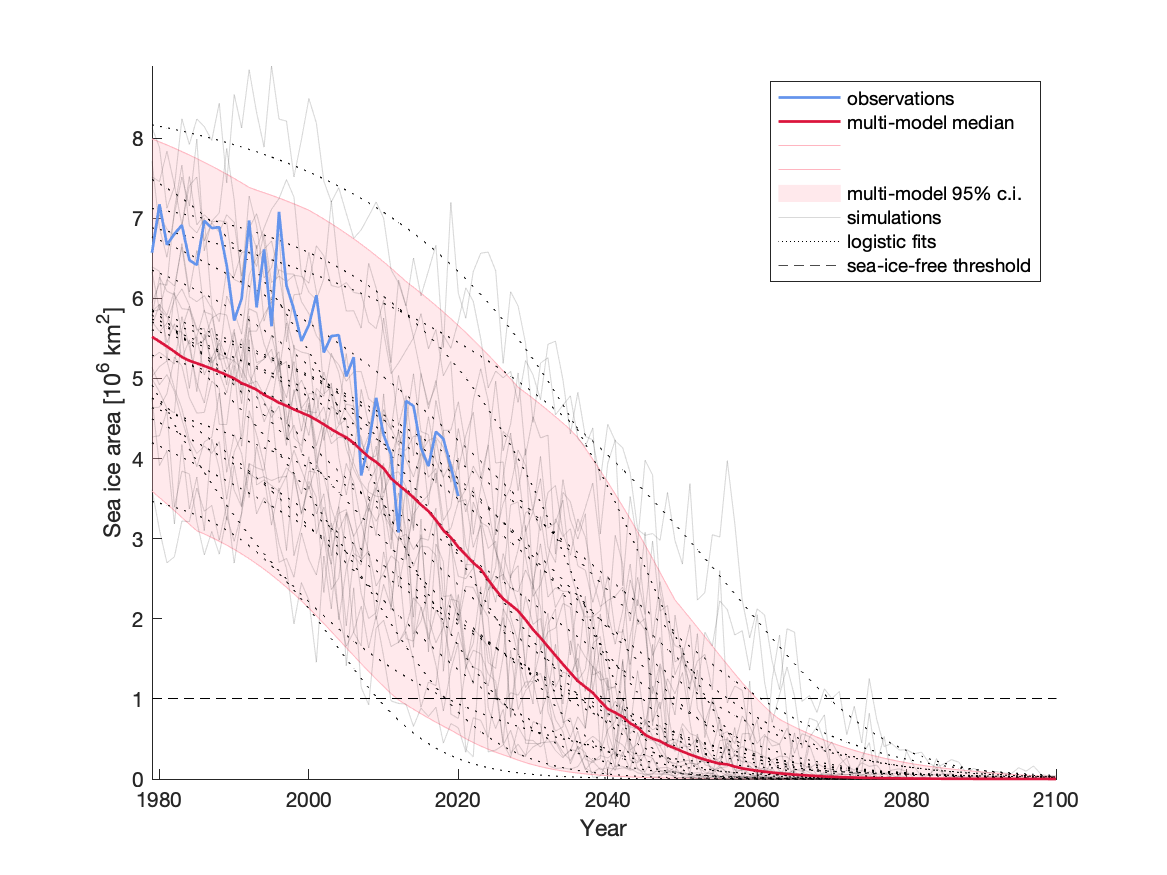
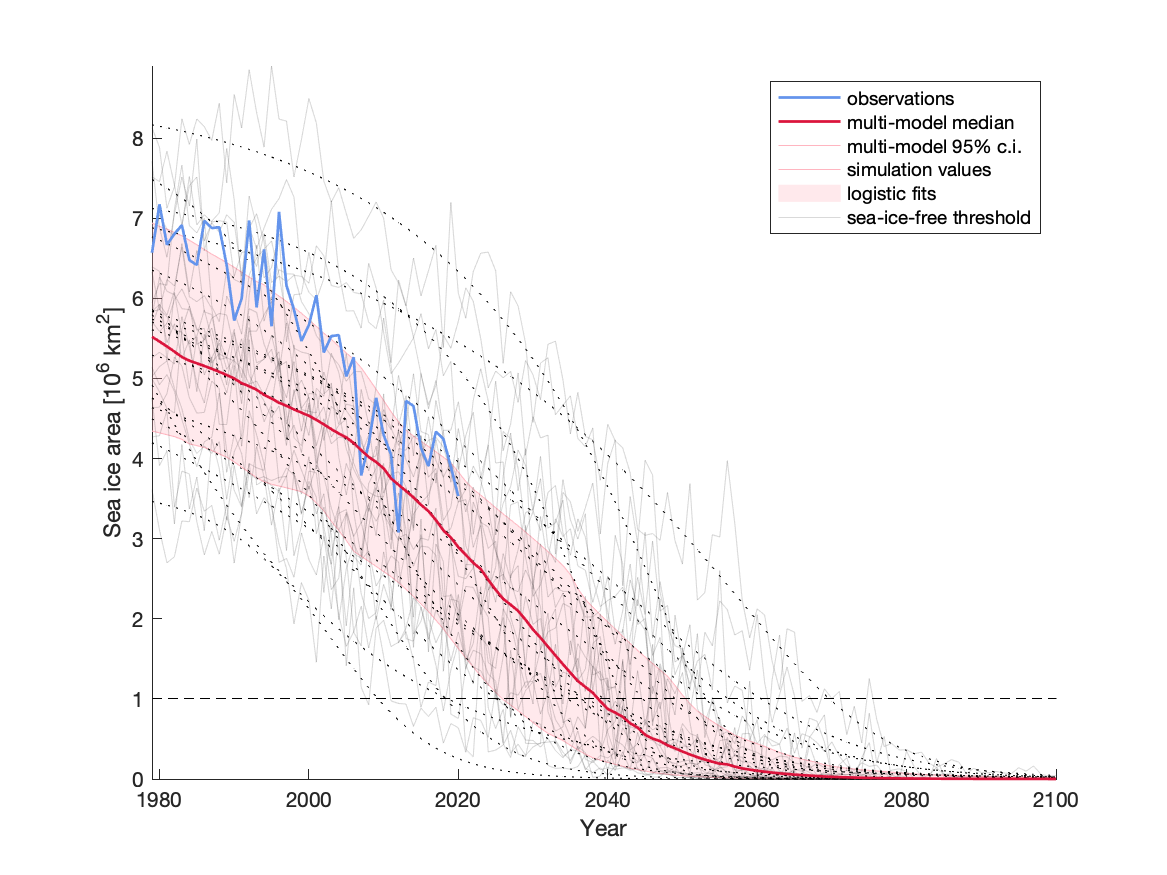
Revise plotting function legend and formatting

Changed region(s): [[0.7095, 0.1543, 0.8946, 0.3086]]

diff --git a/sia_plots.m b/sia_plots.m
@@ -12,7 +12,9 @@ clearvars
 % uncertainty
 Fig1=0;
 if Fig1
-saveStr='SIAFig1_22_11_15';
+    fSize=16; %Font Size
+    saveStr='SIAFig1_22_11_21';
+    load model_full_priors_22_11_14.mat
 end
 
 %%%%%%%%%%%%%%%%%%%%%%%%%%%%%%%%%%%%%%%%%%%%%%%%%%%%%%%%%%%%%%%%%%%%%%%%%%
@@ -20,17 +22,20 @@ end
 Fig2=0; %Set to 1 to use cmip6 output, 0 otherwise
 modelrun=19; % Set to the index of the model run used
 if Fig2
-saveStr='SIAFig2_22_11_15';
-load model_predictions_22_11_14b.mat %Select set of posterior predictions to run
-load model_full_priors_22_11_14.mat
+    fSize=16; %Font Size
+    saveStr='SIAFig2_22_11_21';
+    load model_predictions_22_11_14b.mat %Select set of posterior predictions to run
+    load model_full_priors_22_11_14.mat
 end
 %%%%%%%%%%%%%%%%%%%%%%%%%%%%%%%%%%%%%%%%%%%%%%%%%%%%%%%%%%%%%%%%%%%%%%%%%%
 % Settings for plotting a panel of all the CMIP6 runs
 Fig2b=0;
 if Fig2b
-    saveStr='SIAFig2b_22_11_15';
+    fSize=16; %Font Size
+    saveStr='SIAFig2b_22_11_21';
     load model_predictions_22_11_14b.mat %Select set of posterior predictions to run
     load model_full_priors_22_11_14.mat
+    load mat_files/A20.mat
 end
 
 %%%%%%%%%%%%%%%%%%%%%%%%%%%%%%%%%%%%%%%%%%%%%%%%%%%%%%%%%%%%%%%%%%%%%%%%%%
@@ -38,8 +43,9 @@ end
 Fig3=0; %Set to 1 to use actual remote sensing observations
 newPred=0; %Set to 1 to use new prediction, 0 to load past prediction
 if Fig3
-saveStr='SIAFig3_22_11_16';
-load model_full_priors_22_11_14.mat %Priors to plot
+    fSize=16; %Font Size
+    saveStr='SIAFig3_22_11_21';
+    load model_full_priors_22_11_14.mat %Priors to plot
 end
 if newPred
     %Set parameters for slicesampler
@@ -54,10 +60,10 @@ end
 % Settings for plot of sensitivity to parameters
 Fig4=1; %Set to 1 to use actual remote sensing observations
 newPred=0; %Set to 1 to use new prediction, 0 to load past prediction
-fSize=16; %Font Size
 if Fig4
-saveStr='SIAFig4_22_11_16';
-load model_full_priors_22_11_14.mat %Priors to plot
+    fSize=16; %Font Size
+    saveStr='SIAFig4_22_11_21';
+    load model_full_priors_22_11_14.mat %Priors to plot
 end
 if newPred
     %Set parameters for slicesampler
@@ -90,11 +96,7 @@ if Fig1
             ct = ct+1;
         end
     end
-    % ======================================================================
-    % Get priors for each of the 79 realisations
-    load model_full_priorsb_22_11_10.mat
-    
-    
+    % ======================================================================    
     % storing 1st round priors, finding most frequent value
     glm=runInfo.glm; %The functional form used by the MCMC model
     for ct_79 = 1:79
@@ -102,7 +104,7 @@ if Fig1
         mle=[mean(p1_priors(:,ct_79)) mean(p2_priors(:,ct_79)) mean(p3_priors(:,ct_79)) mean(p4_priors(:,ct_79))];
         y_full(:,ct_79) = glm(mle,tAll);
     end
-    siamodsprct=prctile(y_full',[2.5 50 97.5]);
+    siamodsprct=prctile(y_full',[10 50 90]);
     
     % creating index for first ensemble member for each model
     for ct_mod = 1:20
@@ -112,30 +114,44 @@ if Fig1
     
     % plotting figure 1
     figure; hold on;
-    plot(t+stYr,y_obs,'color',rgb('CornflowerBlue'),'LineWidth',1.3);%observations
-    plot(tAll+stYr,siamodsprct(2,:),'color',rgb('Crimson'),'LineWidth',1.3);%multimodel median
+    h(1)=plot(t+stYr,y_obs,'color',rgb('CornflowerBlue'),'LineWidth',1.3);%observations
+    h(2)=plot(tAll+stYr,siamodsprct(2,:),'color',rgb('Crimson'),'LineWidth',1.3);%multimodel median
     shade(tAll+stYr,siamodsprct(1,:),tAll+stYr,siamodsprct(3,:),'color',rgb('LightPink'),'FillType',[2 1]);
     for ct =em1
-        plot(tAll+stYr,y2(:,ct),'color',[rgb('Black'),0.15]); %actual realisations
-        plot(tAll+stYr,y_full(:,ct),':','color',rgb('Black')); %logistic fits
-        yline(1,'--k');%threshold
+        h(3)=plot(tAll+stYr,y2(:,ct),'color',[rgb('Black'),0.15]); %actual realisations
+        h(4)=plot(tAll+stYr,y_full(:,ct),':','color',rgb('Black')); %logistic fits
+        h(5)=yline(1,'--k');%threshold
         %     plot(t2+stYr,siamodsprct(:,2),'color',rgb('Red'),'LineWidth',1.5);%model median again
         axis tight;
         xlabel('Year');
         ylabel('Sea ice area [10^6 km^2]');
-        yline(1,'--k');
     end
     plot(t+stYr,y_obs,'color',rgb('CornflowerBlue'),'LineWidth',1.3);%observations again
     plot(tAll+stYr,siamodsprct(2,:),'color',rgb('Crimson'),'LineWidth',1.3);%multimodel median again
-    legend('observations','multi-model median','','','multi-model 95% c.i.','simulations','logistic fits','sea-ice-free threshold');
-    
-    % saving the figures
+    legend(h,'observations','multi-model median','simulation values','logistic fits','sea-ice-free threshold');
+    legend boxoff
+    set(gca,'FontSize',fSize);
     % saving the figure
     saveas(gcf,['plots/' saveStr],'png');
 end
 if Fig2b
+    %Get labels for all the model runs
+    ct = 1;
+    for ct_mod = 1:size(A20,2)
+        if size(A20(ct_mod).X,2)>1
+            runCt=1;
+            for ct_em = 1:size(A20(ct_mod).X,2)
+                pltLabel(ct)=strcat(string(A20(ct_mod).name), " run ",num2str(runCt));
+                runCt=runCt+1;
+                ct = ct+1;
+            end
+        else
+            pltLabel(ct)=string(A20(ct_mod).name);
+            ct=ct+1;
+        end 
+    end
     glm=obsInfo.glm;
-    figure
+    figure2('Position',[10 10 1200 1000])
     for mn=1:79
         full_fit_theta=[median(p1_priors(:,mn)) median(p2_priors(:,mn)) median(p3_priors(:,mn)) median(p4_priors(:,mn))]; 
         yhat = glmtimeseries(glm,squeeze(chainAll(:,:,mn)),tAll);
@@ -146,7 +162,7 @@ if Fig2b
         hold on; 
         plot(stYr+tAll,yfull,'Color','r');
         hold on;
-        title(['Run ' num2str(mn)])
+        title(pltLabel(mn))
     end 
     saveas(gcf,['plots/' saveStr],'png');
 end
@@ -275,28 +291,28 @@ if Fig3
     siaprctpred = prctile(ypred,[7 50 93])'; %Calculate percentiles
     
     % FIGURE
-    figure2('Position',[10 10 800 1000])
+    figure2('Position',[10 10 1200 1000])
     subplot(2,4,(5:8))
     %Shade the 95% CI prediction of logistic
     shade(tAll(42:end)+stYr,siaprctpred(42:end,1),tAll(42:end)+stYr,siaprctpred(42:end,3),'color',rgb('LightPink'),'FillType',[2 1]);
     hold on
     shade(t+stYr,siaprctpred(yrObs,1),t+stYr,siaprctpred(yrObs,3),'color',rgb('Gray'),'FillType',[2 1]);
     hold on
-
-        h(1)=plot(t+stYr,yObs,'k');
+    h(1)=plot(t+stYr,yObs,'k');
     hold on
     h(2)=plot(tAll+stYr,siaprctpred(:,2),'color',rgb('HotPink')); %the 50th percentile of Bayesian fit
     hold on
-    yline(1,'--k');
+    h(3)=yline(1,'--k');
     axis tight;
     xlabel('Year');
     ylabel('SIA [10^6 km^2]');
     title('(e)');
     ax = gca;
     ax.TitleHorizontalAlignment = 'left';
-        legend('observations','training interval','forecast median','forecast 80% ci')
-    
-    
+    legend(h,'observations','prediction median','sea-ice-free threshold')
+    legend boxoff
+    set(gca,'FontSize',fSize)
+
     % plots histograms of priors + posteriors for each of the parameters
     subplot(2,4,1);hold on;
     % setting number of bins for histogram so less dense and colour actually
@@ -316,6 +332,8 @@ if Fig3
     xlabel('A_{0} [10^6 km^2]');
     xlim([0 20])
     legend('prior','posterior','full-fit');
+    legend boxoff
+    set(gca,'FontSize',fSize)
     
     subplot(2,4,2); hold on;
     h1 = histogram(p2_priors,'FaceColor',rgb('Grey'));%priors
@@ -331,6 +349,7 @@ if Fig3
     xlim([0 2])
     ylabel('distribution');
     xlabel('alpha [units]');
+    set(gca,'FontSize',fSize)
     
     
     subplot(2,4,3); hold on;
@@ -346,6 +365,7 @@ if Fig3
     xlim([1970 2080])
     ylabel('distribution');
     xlabel('t_{0} [year]');
+    set(gca,'FontSize',fSize)
     
     
     
@@ -363,6 +383,7 @@ if Fig3
     xlim([0 50])
     ylabel('distribution');
     xlabel('\nu [unitless]');
+    set(gca,'FontSize',fSize)
     
     
     % saving the figure
@@ -423,7 +444,7 @@ if Fig4
     hold on
     plot(y*(range(yr)./(0.1*max(y)*max(yr)))+min(yr)+stYr-5,yPts,'Color','b');
     xlim([2019 2060])
-    ylim([min(xy) max(yPts)])
+    ylim([min(xy) 17])
     ylabel('A_{0} [10^6 km^2]');
     xlabel('Year of Ice-Free Arctic')
     set(gca,'FontSize',fSize)
@@ -458,7 +479,7 @@ if Fig4
     hold on
     plot(y*(range(yr)./(0.1*max(y)*max(yr)))+min(yr)+stYr-5,yPts,'Color','b');
     xlim([2019 2060])
-    ylim([min(xy) max(yPts)])
+    ylim([min(xy) 1])
     xlabel('Year of Ice-Free Arctic')
     ylabel('\alpha');
     set(gca,'FontSize',fSize)
@@ -528,7 +549,7 @@ if Fig4
     hold on
     plot(y*(range(yr)./(0.1*max(y)*max(yr)))+min(yr)+stYr-5,yPts,'Color','b');
     xlim([2019 2060])
-    ylim([min(xy) max(yPts)])
+    ylim([min(xy) 30])
     xlabel('Year of Ice-Free Arctic')
     ylabel('\nu')
     set(gca,'FontSize',fSize)
